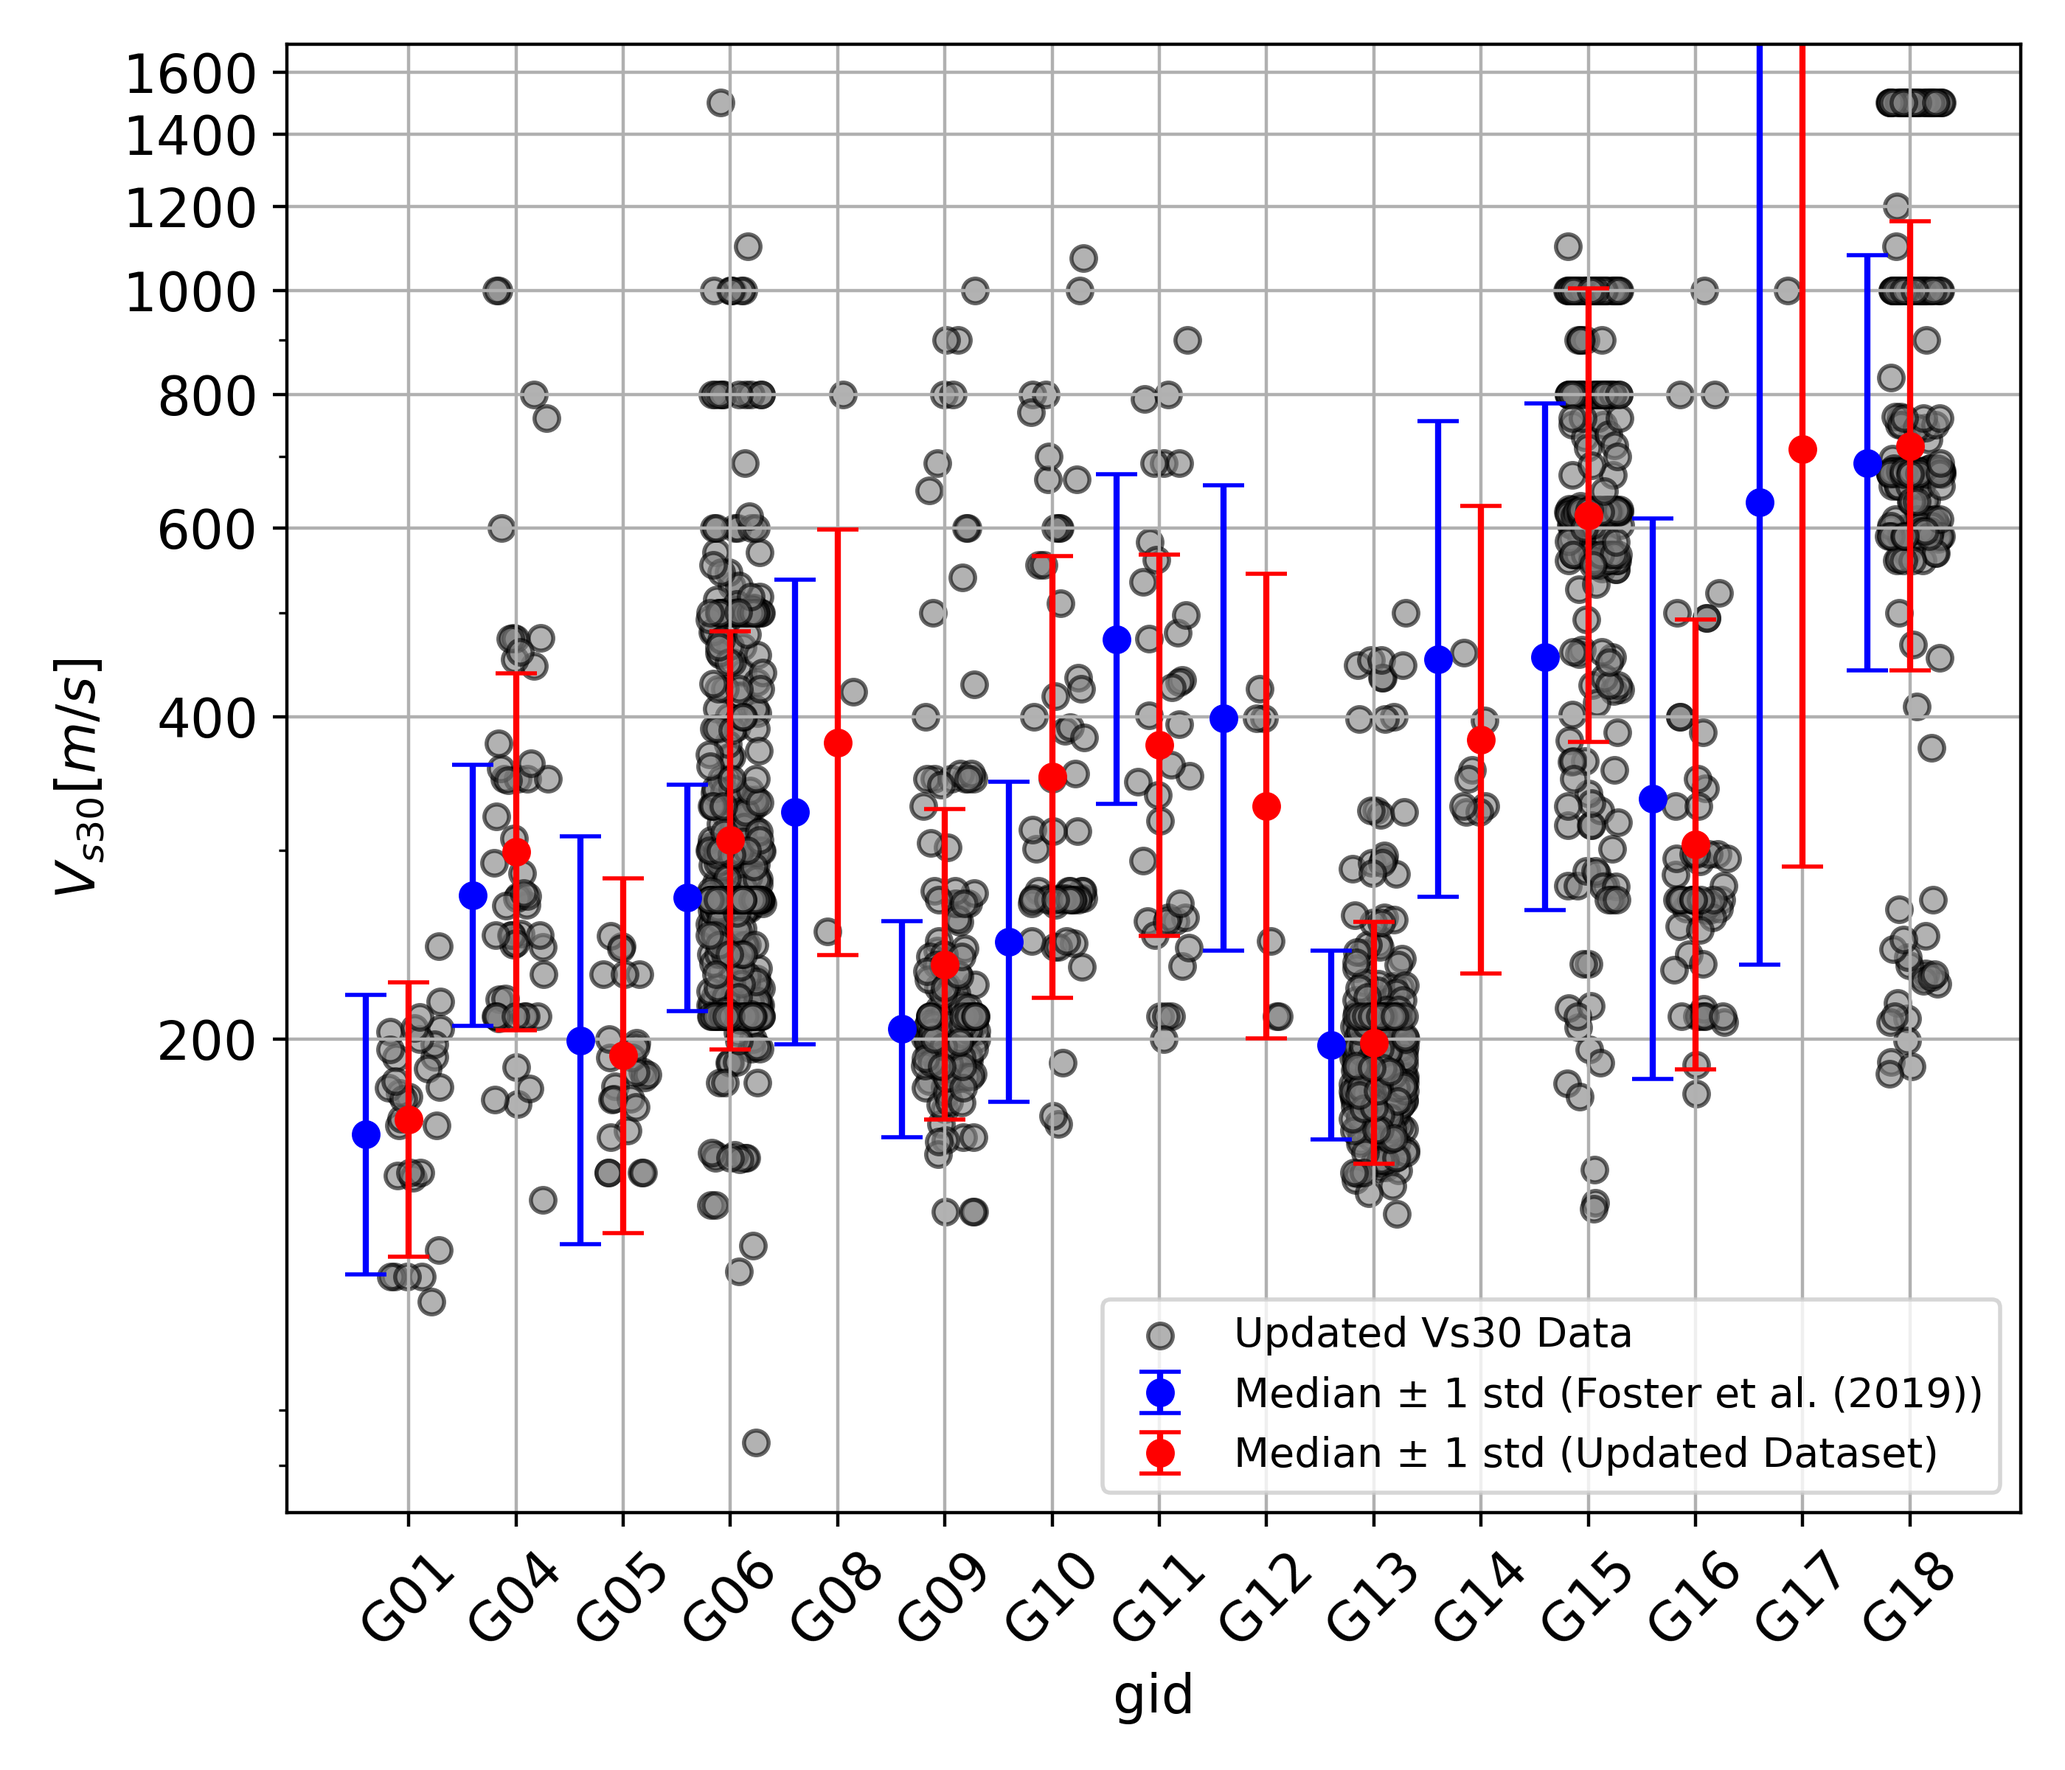
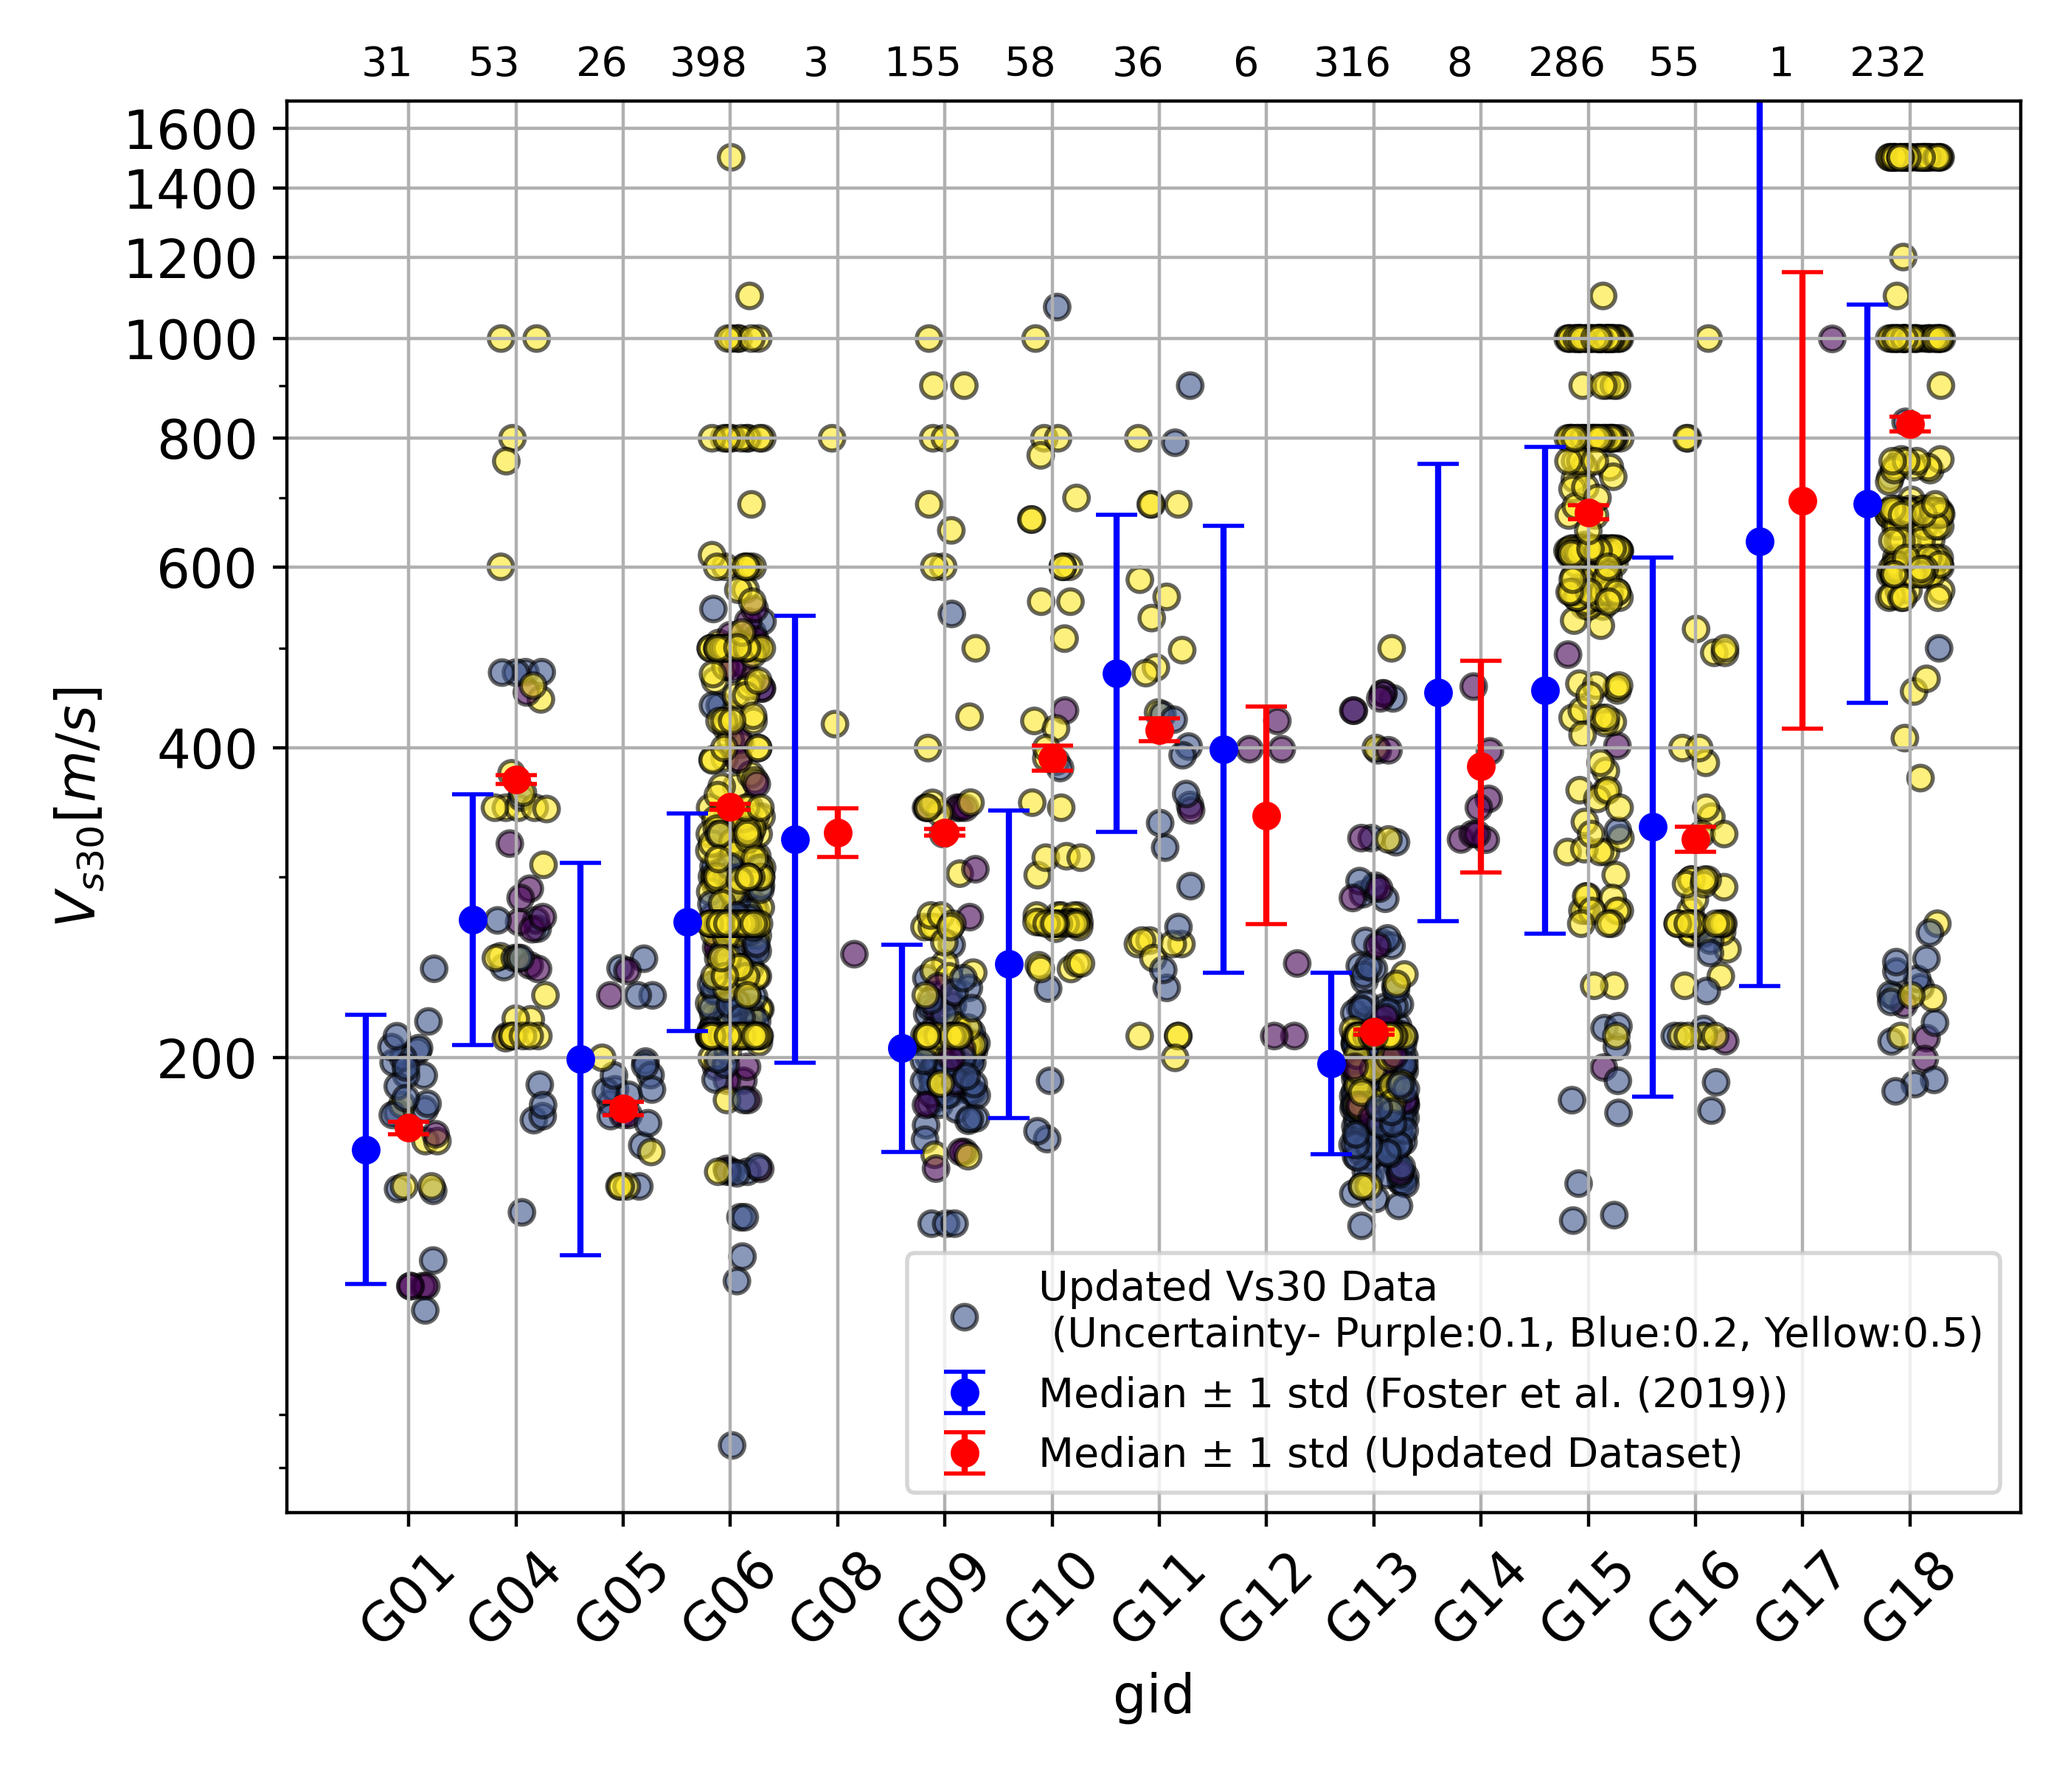
Personal

diff --git a/CPT/bayesian_TID.py b/CPT/bayesian_TID.py
@@ -2,7 +2,7 @@ import numpy as np
 from pathlib import Path
 import matplotlib.pyplot as plt
 import pandas as pd
-from vs30 import model, model_terrain, sites_cluster
+from vs30 import model_3, model_terrain, sites_cluster
 
 terrain_ids = {
     1: ("T01", "T01"),
@@ -31,6 +31,7 @@ vs30_terrain_id_df = vs30_terrain_id_df.loc[vs30_terrain_id_df['tid'] != 255]  #
 
 means = []
 errors = []
+counts = []
 for i, (tid, tid_name) in terrain_ids.items():
     print(tid, tid_name)
     count = vs30_terrain_id_df.loc[vs30_terrain_id_df['tid'] == i].Vs30.count()
@@ -40,6 +41,7 @@ for i, (tid, tid_name) in terrain_ids.items():
 
     means.append(vs30_mean)
     errors.append(vs30_std)
+    counts.append(count)
 
 prior = model_terrain.model_prior()
 prior_means = prior.T[0]
@@ -57,7 +59,7 @@ print(means_minus_1std)
 print(yerr2)
 
 vs30_terrain_id_df = vs30_terrain_id_df.rename(columns={"NZTM_X": "easting", "NZTM_Y": "northing", "Vs30": "vs30"})
-new_posterior = model.posterior(posterior, vs30_terrain_id_df, "tid")
+new_posterior = model_3.posterior(posterior, vs30_terrain_id_df, "tid")
 new_posterior_means = new_posterior.T[0]
 new_posterior_errors = new_posterior.T[1] * new_posterior_means
 upper_new_posterior_errors = new_posterior_errors + new_posterior_means
@@ -70,14 +72,15 @@ yerr = [means_minus_1std2, means_plus_1std2]
 
 median_vs30 = np.median(new_posterior[:, 0])
 
-
 plt.figure(figsize=(7, 6))
-scatter_label = 'Updated Vs30 Data'
+scatter_label = 'Updated Vs30 Data \n (Uncertainty- Purple:0.1, Blue:0.2, Yellow:0.5)'
 for i, (tid, tid_name) in enumerate(terrain_ids.items()):
     subset = vs30_terrain_id_df[vs30_terrain_id_df['tid'] == tid]
     random_offsets = np.random.rand(len(subset)) * 0.5
     x_values = i + random_offsets
-    plt.scatter(x_values, subset['vs30'], color='grey', edgecolor = 'k', alpha=0.6, label=scatter_label if i == 0 else None)
+    colors = subset['uncertainty']  # Assuming 'uncertainty' column exists
+    scatter = plt.scatter(x_values, subset['vs30'], c=colors, cmap='viridis', edgecolor='k', alpha=0.6, label=scatter_label if i == 0 else None)
+    plt.text(i, 1800, str(counts[i]), ha='center', fontsize=10, color='black')
 
 posterior = model_terrain.model_posterior_paper()
 posterior_means = posterior.T[0]
@@ -86,20 +89,17 @@ means_minus_1std = posterior_means * (1 - np.exp(-posterior.T[1]))
 yerr2 = [means_minus_1std, means_plus_1std]
 plt.errorbar(np.arange(len(posterior_means)) - 0.2, posterior_means, yerr=yerr2, fmt='o', capsize=5, label='Median ± 1 std (Foster et al. (2019))', color='blue')
 
-
-
 # Plot the median values for new_posterior
-plt.errorbar(np.arange(len(new_posterior_means))+0.2, new_posterior_means, yerr=yerr, fmt='o', capsize=5, label='Median ± 1 std (Updated Dataset)', color='r')
+plt.errorbar(np.arange(len(new_posterior_means)) + 0.2, new_posterior_means, yerr=yerr, fmt='o', capsize=5, label='Median ± 1 std (Updated Dataset)', color='r')
 posterior = model_terrain.model_prior()
 posterior_means = posterior.T[0]
 
 means_plus_1std = posterior_means * (np.exp(posterior.T[1]) - 1)
 means_minus_1std = posterior_means * (1 - np.exp(-posterior.T[1]))
 yerr2 = [means_minus_1std, means_plus_1std]
-#plt.errorbar(np.arange(len(posterior_means))-0.3, posterior_means, yerr=yerr2, fmt='o', capsize=5, label='Median ± 1 std (Prior)', color='green')
+# plt.errorbar(np.arange(len(posterior_means)) - 0.3, posterior_means, yerr=yerr2, fmt='o', capsize=5, label='Median ± 1 std (Prior)', color='green')
 
-
-#plt.title('Comparison of Mean ±1 std of vs30 grouped by tid')
+# plt.title('Comparison of Mean ±1 std of vs30 grouped by tid')
 plt.xlabel('tid', fontsize=13)
 plt.ylabel(r'$V_{s30} [m/s]$', fontsize=13)
 xtick_labels = ['T01', 'T02', 'T03', 'T04', 'T05', 'T06', 'T07', 'T08', 'T09', 'T10', 'T11', 'T12', 'T13', 'T14', 'T15', 'T16']
@@ -113,6 +113,8 @@ plt.gca().set_yticklabels(['{:.0f}'.format(x) for x in current_values])
 print(posterior)
 print(new_posterior)
 plt.grid(True)  # Add grid lines
+
+
 plt.tight_layout()
-plt.savefig('Updated_Tid3_test0212.png',dpi=400)
+plt.savefig('Updated_Tid3_test0212.png', dpi=400)
 plt.show()

diff --git a/CPT/bayesian_GID.py b/CPT/bayesian_GID.py
@@ -2,8 +2,8 @@ import numpy as np
 from pathlib import Path
 import matplotlib.pyplot as plt
 import pandas as pd
-from Add_NZGDover15_RMDUP0131.bayesian_GID import vs30_geo_id_df
-from vs30 import model, model_geology, sites_cluster
+#from Add_NZGDover15_RMDUP0131.bayesian_GID import vs30_geo_id_df
+from vs30 import model_3, model_geology, sites_cluster
 
 geo_ids = {
     1: ("G01", "Peat"),
@@ -30,10 +30,12 @@ vs30_geo_id_df = df.copy()
 vs30_geo_id_df = vs30_geo_id_df.loc[vs30_geo_id_df['gid'] != 255]  # remove 255 = ID_NODATA
 vs30_geo_id_df = vs30_geo_id_df.loc[vs30_geo_id_df['gid'] != 0]  # remove 0 = Water
 
+
 means = []
 errors = []
-for i, (gid, geo_name) in geo_ids.items():
-    print(gid, geo_name)
+counts = []
+for i, (gid, gid_name) in geo_ids.items():
+    print(gid, gid_name)
     count = vs30_geo_id_df.loc[vs30_geo_id_df['gid'] == i].Vs30.count()
     vs30_mean = vs30_geo_id_df.loc[vs30_geo_id_df['gid'] == i].Vs30.mean()
     vs30_std = vs30_geo_id_df.loc[vs30_geo_id_df['gid'] == i].Vs30.std()
@@ -41,6 +43,7 @@ for i, (gid, geo_name) in geo_ids.items():
 
     means.append(vs30_mean)
     errors.append(vs30_std)
+    counts.append(count)
 
 prior = model_geology.model_prior()
 prior_means = prior.T[0]
@@ -58,7 +61,7 @@ print(means_minus_1std)
 print(yerr2)
 
 vs30_geo_id_df = vs30_geo_id_df.rename(columns={"NZTM_X": "easting", "NZTM_Y": "northing", "Vs30": "vs30"})
-new_posterior = model.posterior(posterior, vs30_geo_id_df, "gid")
+new_posterior = model_3.posterior(posterior, vs30_geo_id_df, "gid")
 new_posterior_means = new_posterior.T[0]
 new_posterior_errors = new_posterior.T[1] * new_posterior_means
 upper_new_posterior_errors = new_posterior_errors + new_posterior_means
@@ -75,12 +78,14 @@ print(upper_new_posterior_errors)
 print(lower_new_posterior_errors)
 
 plt.figure(figsize=(7, 6))
-scatter_label = 'Updated Vs30 Data'
+scatter_label = 'Updated Vs30 Data \n (Uncertainty- Purple:0.1, Blue:0.2, Yellow:0.5)'
 for i, (gid, gid_name) in enumerate(geo_ids.items()):
     subset = vs30_geo_id_df[vs30_geo_id_df['gid'] == gid]
     random_offsets = np.random.rand(len(subset)) * 0.5
     x_values = i + random_offsets
-    plt.scatter(x_values, subset['vs30'], color='grey', edgecolor = 'k', alpha=0.6, label=scatter_label if i == 0 else None)
+    colors = subset['uncertainty']  # Assuming 'uncertainty' column exists
+    scatter = plt.scatter(x_values, subset['vs30'], c=colors, cmap='viridis', edgecolor='k', alpha=0.6, label=scatter_label if i == 0 else None)
+    plt.text(i, 1800, str(counts[i]), ha='center', fontsize=10, color='black')
 
 posterior = model_geology.model_posterior_paper()
 posterior_means = posterior.T[0]

diff --git a/vs30/model_3.py b/vs30/model_3.py
@@ -213,7 +213,7 @@ def calculate_n(uncertainty, base_uncertainty=0.1, base_n=1):
     """
     return base_n * (base_uncertainty / uncertainty)
 
-def posterior(model, sites, idcol, n_prior=3, min_sigma=0.5, base_uncertainty=0.1, base_n=1):
+def posterior(model, sites, idcol, n_prior=3, min_sigma=0.5, base_uncertainty=0.1):
     """
     model: prior model
     sites: sites containing vs30 and uncertainty
@@ -239,7 +239,9 @@ def posterior(model, sites, idcol, n_prior=3, min_sigma=0.5, base_uncertainty=0.
             print(f"Invalid index group: {m + 1}")
             continue
         count = len(group)
+        print(count)
         adjusted_count = count * (base_uncertainty / uncertainty)  # Adjusted count based on uncertainty
+        print(adjusted_count)
         var = _new_var(stdv[m], n_prior, uncertainty, group_index, adjusted_count)
         y_mean = group['vs30'].mean()  # Calculate mean vs30
         vs30[m] = _new_mean(vs30[m], n_prior, stdv[m], var, y_mean, group_index, adjusted_count, uncertainty)
